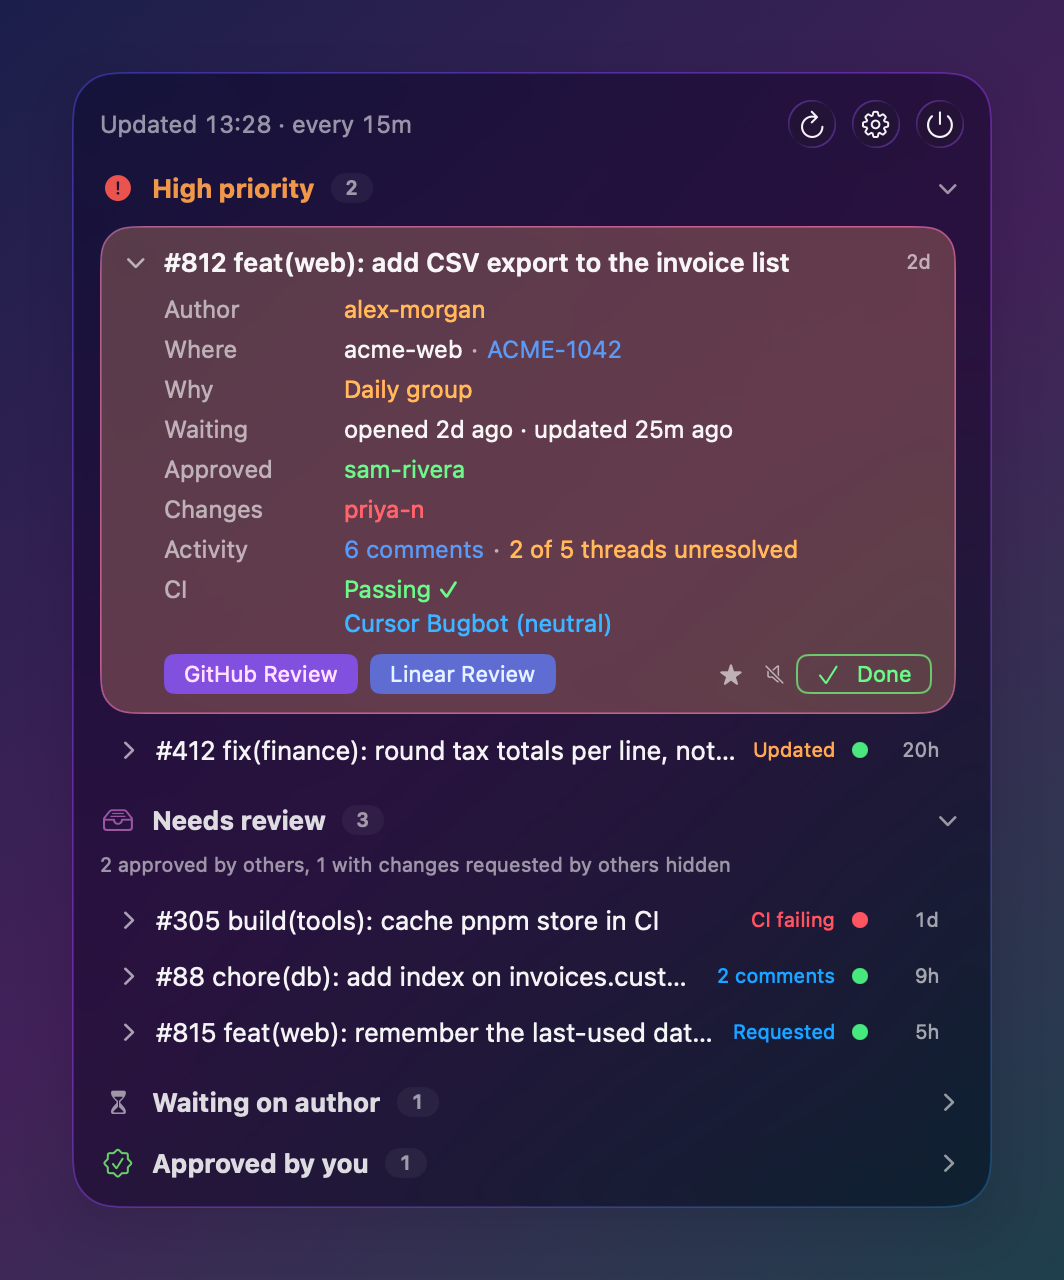
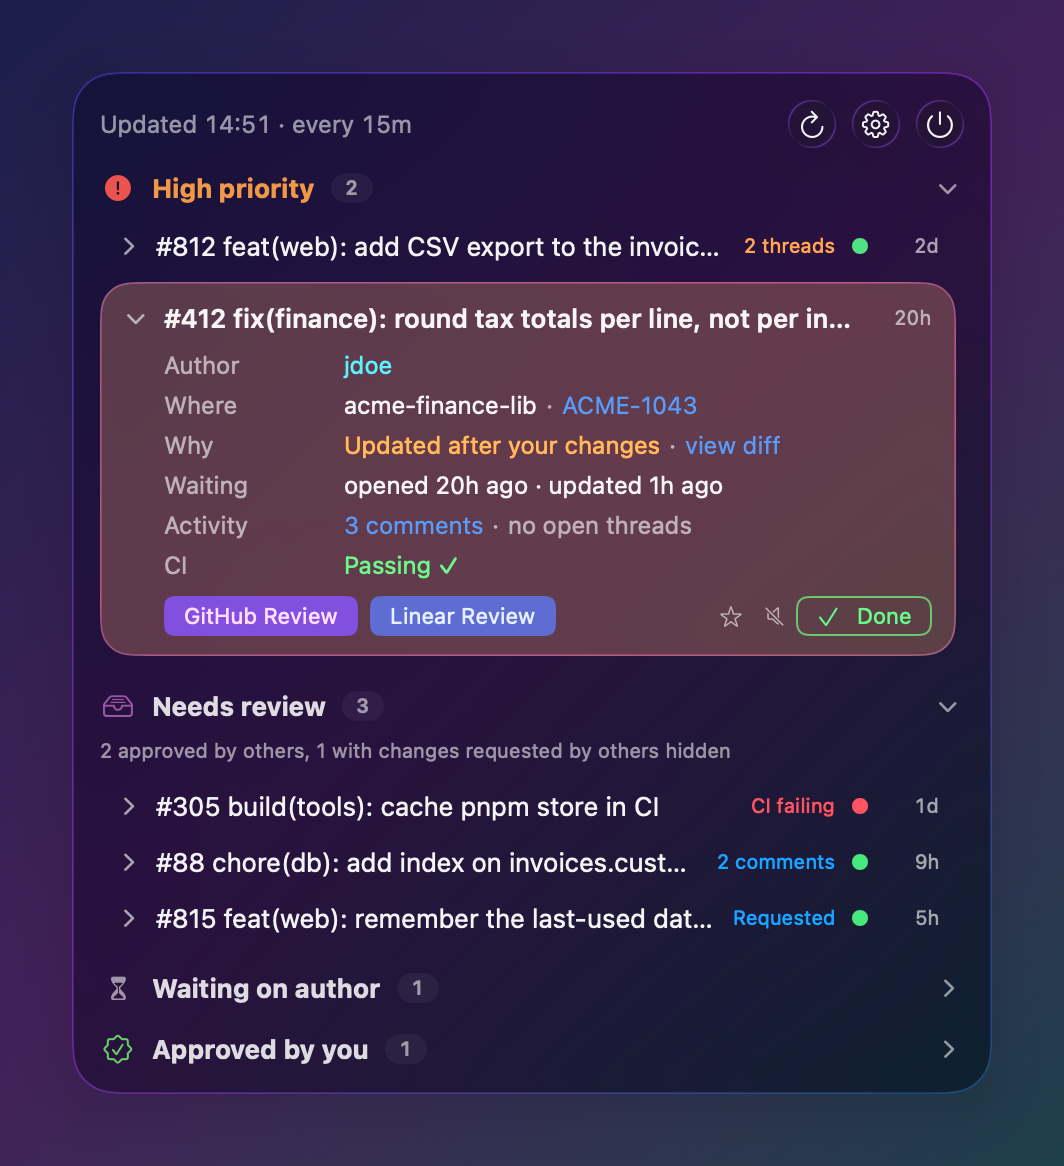
fix: keep row toggles to their block; move since-review link to Why line (#6)
Row expansion stored toggles by PR key alone, so a row opened in a
collapsed block came out collapsed when the PR escalated to High
priority. Toggles are now scoped to the block they were made in.

The "Since your review" button wrapped and squeezed GitHub Review and
Linear Review into truncation. It is now a "view diff" link on the Why
line, next to the reason that makes it relevant.

Screenshot mode now places its window on the highest-scale screen, so
`make screenshots` writes 2x images even when focus is on a non-Retina
display. Demo data expands the High priority PR that carries the link.

diff --git a/Sources/ReviewQueue/CardView.swift b/Sources/ReviewQueue/CardView.swift
@@ -17,20 +17,22 @@ struct CardView: View {
             now: now,
             tint: block.style.cardTint,
             signal: queueSignal(pr),
-            isExpanded: model.rowExpansion.isExpanded(pr.key, byDefault: block.areRowsExpandedByDefault),
-            onToggle: { model.rowExpansion.toggle(pr.key) },
+            isExpanded: model.rowExpansion.isExpanded(pr.key, in: block.rawValue, byDefault: block.areRowsExpandedByDefault),
+            onToggle: { model.rowExpansion.toggle(pr.key, in: block.rawValue) },
             onDone: { model.markDone(pr) }
         ) {
             CardField("Author") {
                 LinkText(pr.author, color: authorColor(settings)) { model.open("https://github.com/\(pr.author)") }
             }
-            StandardDetailRows(model: model, pr: pr, settings: settings, now: now, reason: reason(settings))
+            StandardDetailRows(
+                model: model,
+                pr: pr,
+                settings: settings,
+                now: now,
+                reason: reason(settings),
+                sinceMyReviewUrl: pr.sinceMyReviewUrl
+            )
         } accessory: {
-            if let since = pr.sinceMyReviewUrl {
-                Button("Since your review") { model.open(since) }
-                    .buttonStyle(.ghost(.githubPurple))
-                    .help("Files changed since the commit you last reviewed")
-            }
             if settings.shows(.actions) {
                 authorActions(settings)
             }
@@ -209,11 +211,12 @@ struct StandardDetailRows<Pr: TrackedPr>: View {
     let settings: QueueSettings
     let now: Date
     let reason: PrSignal?
+    var sinceMyReviewUrl: String? = nil
 
     var body: some View {
         CardField("Where") { whereValue }
-        if settings.shows(.reason), let reason {
-            CardField("Why") { Text(reason.text).foregroundStyle(reason.tone.color) }
+        if shownReason != nil || sinceMyReviewUrl != nil {
+            CardField("Why") { whyValue }
         }
         if settings.shows(.waiting) {
             CardField("Waiting") { Text("opened \(timeAgo(pr.createdAt, now: now)) · updated \(timeAgo(pr.updatedAt, now: now))") }
@@ -234,6 +237,23 @@ struct StandardDetailRows<Pr: TrackedPr>: View {
 
     private var hasFailing: Bool { settings.shows(.failing) && !pr.failingChecks.isEmpty }
     private var hasNeutral: Bool { settings.shows(.neutral) && !pr.neutralChecks.isEmpty }
+
+    private var shownReason: PrSignal? { settings.shows(.reason) ? reason : nil }
+
+    private var whyValue: some View {
+        HStack(spacing: 4) {
+            if let shownReason {
+                Text(shownReason.text).foregroundStyle(shownReason.tone.color)
+            }
+            if let sinceMyReviewUrl {
+                if shownReason != nil { Text("·").foregroundStyle(.secondary) }
+                LinkText("view diff") { model.open(sinceMyReviewUrl) }
+                    .layoutPriority(1)
+                    .help("Files changed since the commit you last reviewed")
+            }
+        }
+        .lineLimit(1)
+    }
 
     private var whereValue: some View {
         HStack(spacing: 4) {

diff --git a/Sources/ReviewQueueCore/DemoData.swift b/Sources/ReviewQueueCore/DemoData.swift
@@ -15,7 +15,7 @@ public struct DemoData: Sendable {
     public let fetchedAt: Date
 
     /// High priority holds a daily-group PR with others' approval and changes-request and one updated after your
-    /// changes; Needs review shows three PRs and hides two approved by others and one with changes requested by others.
+    /// changes, which links the diff since your review; Needs review shows three PRs and hides two approved by others and one with changes requested by others.
     /// My PRs has two that need you, two ready to merge, one with reviewers and a draft, plus one in an excluded repo; the
 /// bot's comment is from an ignored commenter, so CI alone puts its PR in Needs you.
     public init(now: Date) {
@@ -38,7 +38,8 @@ public struct DemoData: Sendable {
             ),
             queuePr(
                 412, "acme-finance-lib", "fix(finance): round tax totals per line, not per invoice", author: "jdoe", story: 1043,
-                myReview: .changesAddressed, comments: 3, threads: (0, 2), created: at.hours(20), updated: at.hours(1)
+                myReview: .changesAddressed, sinceMyReview: true, comments: 3, threads: (0, 2), created: at.hours(20),
+                updated: at.hours(1)
             ),
             queuePr(
                 815, "acme-web", "feat(web): remember the last-used date range filter", author: "sam-rivera", story: 1045,
@@ -148,6 +149,7 @@ private func queuePr(
     author: String,
     story: Int,
     myReview: MyReview = .none,
+    sinceMyReview: Bool = false,
     isReviewRequested: Bool = false,
     approvedBy: [String] = [],
     changesRequestedBy: [String] = [],
@@ -186,7 +188,8 @@ private func queuePr(
         createdAt: created,
         updatedAt: updated,
         latestCommentUrl: comments > 0 ? "\(url)#issuecomment-1" : nil,
-        firstUnresolvedThreadUrl: threads.unresolved > 0 ? "\(url)#discussion_r1" : nil
+        firstUnresolvedThreadUrl: threads.unresolved > 0 ? "\(url)#discussion_r1" : nil,
+        sinceMyReviewUrl: sinceMyReview ? "\(url)/files/3f9c2a1..8b7e4d0" : nil
     )
 }
 

diff --git a/Sources/ReviewQueue/ScreenshotStage.swift b/Sources/ReviewQueue/ScreenshotStage.swift
@@ -70,7 +70,10 @@ enum ScreenshotStage {
                 window = NSApp.windows.first { $0.identifier?.rawValue.localizedCaseInsensitiveContains("settings") == true }
                 window?.makeKeyAndOrderFront(nil)
                 window?.makeFirstResponder(nil)
-                if let window { growToFitScrolledContent(window) }
+                if let window {
+                    placeOnSharpestScreen(window)
+                    growToFitScrolledContent(window)
+                }
                 try? await Task.sleep(for: .seconds(1))
             }
             guard let window else { return }
@@ -113,10 +116,17 @@ enum ScreenshotStage {
 
     private static func panel(_ content: some View) -> NSWindow {
         let window = hostingWindow(ScreenshotBackdrop { content })
-        let screen = NSScreen.main?.visibleFrame ?? .zero
-        window.setFrameTopLeftPoint(NSPoint(x: screen.minX + 40, y: screen.maxY - 40))
+        placeOnSharpestScreen(window)
         window.makeKeyAndOrderFront(nil)
         return window
+    }
+
+    /// Moves `window` to the top-left of the screen with the highest backing scale. `screencapture -l` captures at the
+    /// scale of the screen the window is on, and `NSScreen.main` is whichever screen holds the focused window, so
+    /// without this a run started from a non-Retina display writes a 1x set.
+    private static func placeOnSharpestScreen(_ window: NSWindow) {
+        let screen = (NSScreen.screens.max { $0.backingScaleFactor < $1.backingScaleFactor } ?? NSScreen.main)?.visibleFrame ?? .zero
+        window.setFrameTopLeftPoint(NSPoint(x: screen.minX + 40, y: screen.maxY - 40))
     }
 
     private static func invisibleWindow(_ content: some View) -> NSWindow {

diff --git a/Tests/ReviewQueueCoreTests/SignalTests.swift b/Tests/ReviewQueueCoreTests/SignalTests.swift
@@ -38,16 +38,23 @@ import Testing
 
     @Test func rowsFollowTheirBlockDefaultUntilToggled() {
         var expansion = RowExpansion()
-        #expect(expansion.isExpanded("a#1", byDefault: true))
-        #expect(!expansion.isExpanded("a#2", byDefault: false))
+        #expect(expansion.isExpanded("a#1", in: "high", byDefault: true))
+        #expect(!expansion.isExpanded("a#2", in: "waiting", byDefault: false))
 
-        expansion.toggle("a#1")
-        expansion.toggle("a#2")
-        #expect(!expansion.isExpanded("a#1", byDefault: true))
-        #expect(expansion.isExpanded("a#2", byDefault: false))
+        expansion.toggle("a#1", in: "high")
+        expansion.toggle("a#2", in: "waiting")
+        #expect(!expansion.isExpanded("a#1", in: "high", byDefault: true))
+        #expect(expansion.isExpanded("a#2", in: "waiting", byDefault: false))
 
-        expansion.toggle("a#1")
-        #expect(expansion.isExpanded("a#1", byDefault: true))
+        expansion.toggle("a#1", in: "high")
+        #expect(expansion.isExpanded("a#1", in: "high", byDefault: true))
+    }
+
+    @Test func aToggleDoesNotFollowThePrIntoAnotherBlock() {
+        var expansion = RowExpansion()
+        expansion.toggle("a#30", in: Block.waiting.rawValue)
+        #expect(expansion.isExpanded("a#30", in: Block.waiting.rawValue, byDefault: false))
+        #expect(expansion.isExpanded("a#30", in: Block.high.rawValue, byDefault: true))
     }
 
     @Test func onlyTheUrgentBlocksExpandRowsByDefault() {

diff --git a/Sources/ReviewQueueCore/Signals.swift b/Sources/ReviewQueueCore/Signals.swift
@@ -39,18 +39,22 @@ private func counted(_ count: Int, _ noun: String) -> String {
     count == 1 ? "1 \(noun)" : "\(count) \(noun)s"
 }
 
-/// Which PR rows are open: each block's default, flipped for every PR toggled since launch, so a row open by default
-/// can still be closed. Keys are `TrackedPr.key`.
+/// Which PR rows are open: each block's default, flipped for every PR toggled in that block since launch, so a row open
+/// by default can still be closed. Toggles are scoped to the block (`scope`) so a PR that moves blocks, such as one
+/// escalating into High priority, starts at its new block's default instead of inheriting a flip made elsewhere. Keys
+/// are `TrackedPr.key`.
 public struct RowExpansion: Equatable, Sendable {
     private var toggled: Set<String> = []
 
     public init() {}
 
-    public func isExpanded(_ key: String, byDefault: Bool) -> Bool {
-        toggled.contains(key) != byDefault
+    public func isExpanded(_ key: String, in scope: String, byDefault: Bool) -> Bool {
+        toggled.contains(Self.id(key, scope)) != byDefault
     }
 
-    public mutating func toggle(_ key: String) {
-        toggled.formSymmetricDifference([key])
+    public mutating func toggle(_ key: String, in scope: String) {
+        toggled.formSymmetricDifference([Self.id(key, scope)])
     }
+
+    private static func id(_ key: String, _ scope: String) -> String { "\(scope):\(key)" }
 }

diff --git a/Sources/ReviewQueue/AppModel.swift b/Sources/ReviewQueue/AppModel.swift
@@ -105,8 +105,8 @@ final class AppModel {
         myAllPrs = demo.myPrs
         myFetchedAt = demo.fetchedAt
         notificationPermission = "Allowed"
-        if let second = lists[.high]?.shown.dropFirst().first { rowExpansion.toggle(second.key) }
-        if let second = myLists[.needsYou]?.shown.dropFirst().first { myRowExpansion.toggle(second.key) }
+        if let first = lists[.high]?.shown.first { rowExpansion.toggle(first.key, in: Block.high.rawValue) }
+        if let second = myLists[.needsYou]?.shown.dropFirst().first { myRowExpansion.toggle(second.key, in: MyBlock.needsYou.rawValue) }
     }
 
     var lists: [Block: BlockList<QueuePr>] { blockLists(prs, settings, dismissals: dismissals) }

diff --git a/Sources/ReviewQueue/MyPrCardView.swift b/Sources/ReviewQueue/MyPrCardView.swift
@@ -18,8 +18,8 @@ struct MyPrCardView: View {
             now: now,
             tint: block.style.cardTint,
             signal: mySignal(pr, context),
-            isExpanded: model.myRowExpansion.isExpanded(pr.key, byDefault: block.areRowsExpandedByDefault),
-            onToggle: { model.myRowExpansion.toggle(pr.key) },
+            isExpanded: model.myRowExpansion.isExpanded(pr.key, in: block.rawValue, byDefault: block.areRowsExpandedByDefault),
+            onToggle: { model.myRowExpansion.toggle(pr.key, in: block.rawValue) },
             onDone: { model.markDone(pr) }
         ) {
             StandardDetailRows(

diff --git a/Tests/ReviewQueueCoreTests/DemoDataTests.swift b/Tests/ReviewQueueCoreTests/DemoDataTests.swift
@@ -10,6 +10,7 @@ import Testing
         let high = lists[.high]?.shown ?? []
         #expect(high.count == 2)
         #expect(high.first.map { !$0.approvedByOthers.isEmpty && !$0.changesRequestedByOthers.isEmpty } == true)
+        #expect(high.last?.sinceMyReviewUrl != nil)
         #expect(lists[.needs]?.shown.count == 3)
         #expect(lists[.needs]?.hidden.note == "2 approved by others, 1 with changes requested by others hidden")
         #expect(lists[.waiting]?.shown.count == 1)
